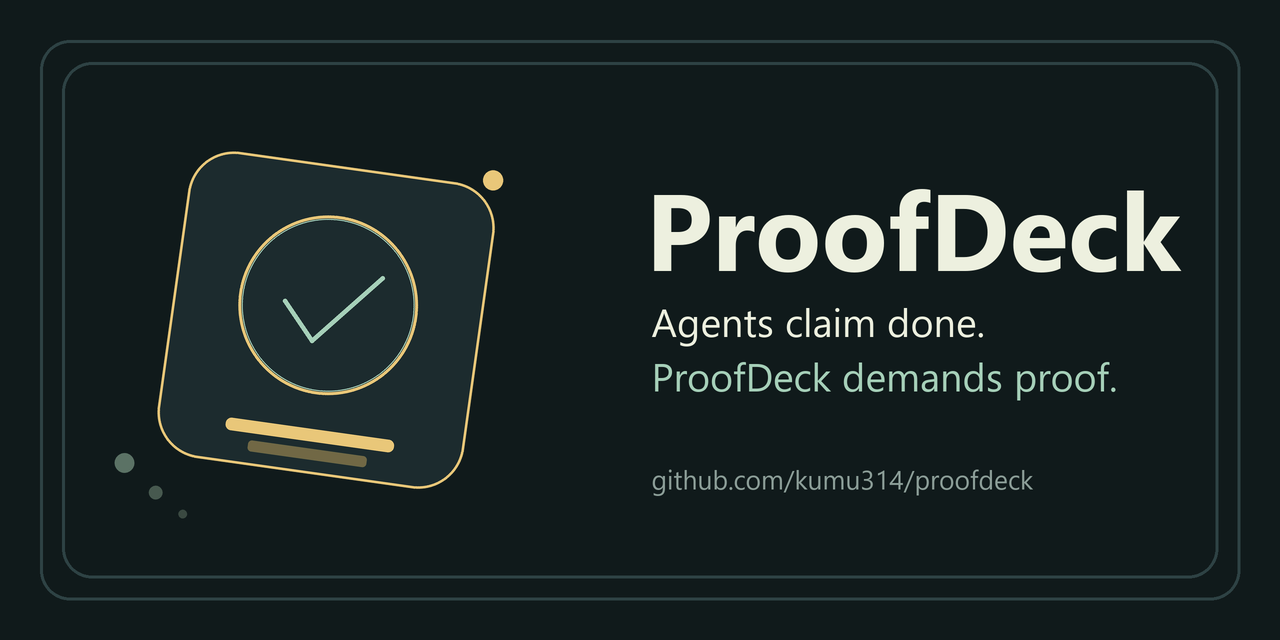
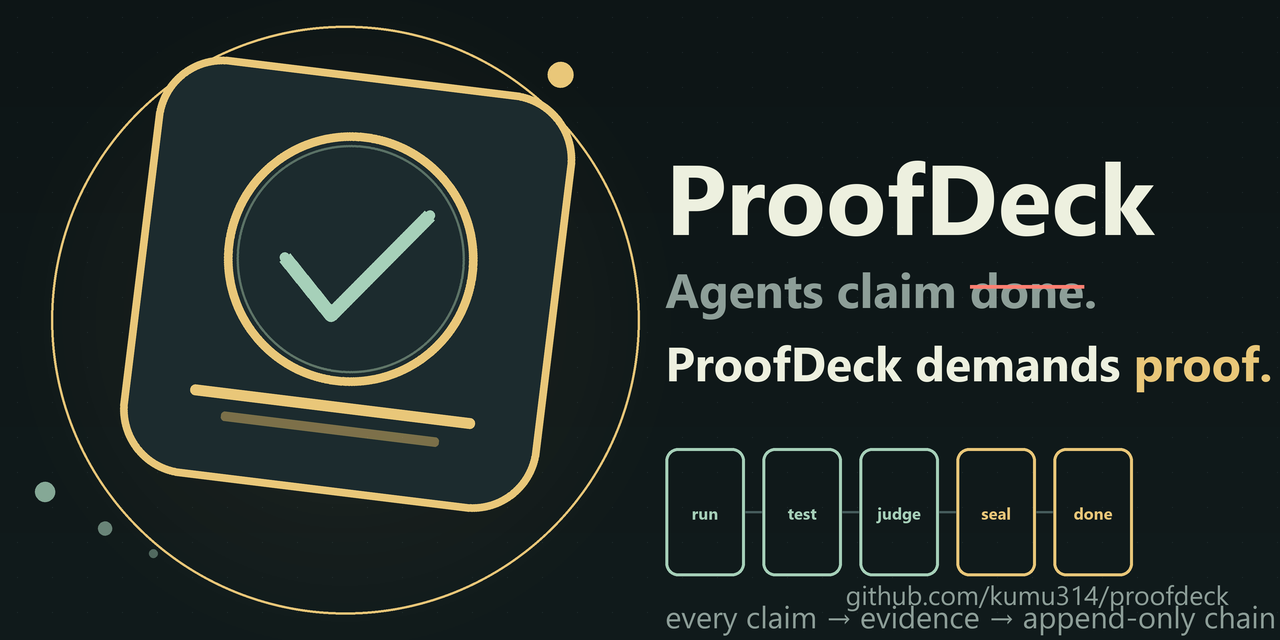
docs: upgrade social preview to the composed design version
- layered composition: soft gold radial glow, tilted deck card with proof seal,
  strikethrough-done typography device, evidence chain strip (run/test/judge/
  seal/done), project palette throughout

diff --git a/docs/render-social-v2.py b/docs/render-social-v2.py
@@ -1,0 +1,157 @@
+#!/usr/bin/env python3
+"""ProofDeck social preview — design version v2 (full-effort composition).
+
+Layers: deep gradient field → dot grid → seal glow → emblem (rotated deck card
+stamped with a proof seal) → evidence chain strip → typography with the
+done→proof contrast device. 3x supersampled.
+"""
+from PIL import Image, ImageDraw, ImageFont
+import os
+
+HERE = os.path.dirname(os.path.abspath(__file__))
+OUT = os.path.join(HERE, "assets", "social-preview-design.png")
+W, H = 1280, 640
+S = 3  # supersample
+WS, HS = W * S, H * S
+
+GOLD = (233, 199, 121)
+GOLD_DIM = (233, 199, 121, 90)
+MINT = (166, 208, 185)
+INK = (237, 240, 223)
+DIM = (141, 158, 152)
+CARD = (28, 43, 46)
+CARD2 = (22, 33, 36)
+BG_TOP = (13, 21, 22)
+BG_BOT = (17, 27, 28)
+RED_SOFT = (255, 128, 114)
+
+def font(size, bold=True):
+    paths = (["C:/Windows/Fonts/segoeuib.ttf", "C:/Windows/Fonts/arialbd.ttf"] if bold
+             else ["C:/Windows/Fonts/segoeui.ttf", "C:/Windows/Fonts/arial.ttf"])
+    for p in paths:
+        if os.path.exists(p):
+            return ImageFont.truetype(p, size)
+    return ImageFont.load_default()
+
+f_word = font(int(H * S * 0.155))          # wordmark
+f_tag = font(int(H * S * 0.075))           # tagline lines
+f_small = font(int(H * S * 0.048), bold=False)
+f_url = font(int(H * S * 0.042), bold=False)
+f_tile = font(int(H * S * 0.026))
+
+im = Image.new("RGB", (WS, HS), BG_TOP)
+d = ImageDraw.Draw(im)
+
+# 1) vertical gradient field
+for y in range(HS):
+    t = y / HS
+    c = tuple(int(BG_TOP[i] + (BG_BOT[i] - BG_TOP[i]) * t) for i in range(3))
+    d.line([(0, y), (WS, y)], fill=c)
+
+# 2) faint dot grid
+step = int(HS * 0.055)
+for gy in range(step // 2, HS, step):
+    for gx in range(step // 2, WS, step):
+        d.ellipse([gx - 1, gy - 1, gx + 1, gy + 1], fill=(38, 52, 55))
+
+# 3) soft gold radial glow behind the emblem (small-layer gradient, smooth-scaled)
+glow_cx, glow_cy = int(WS * 0.27), int(HS * 0.5)
+gr = int(HS * 0.58)
+glow_layer = Image.new("RGBA", (gr, gr), (0, 0, 0, 0))
+gd = ImageDraw.Draw(glow_layer)
+gc = gr // 2
+for r in range(gc, 0, -2):
+    a = int(30 * (1 - r / gc) ** 1.6)
+    gd.ellipse([gc - r, gc - r, gc + r, gc + r], fill=(GOLD[0], GOLD[1], GOLD[2], a))
+glow_layer = glow_layer.resize((gr * 2, gr * 2), Image.BICUBIC)
+im.paste(glow_layer, (glow_cx - gr, glow_cy - gr), glow_layer)
+# one faint outer composition ring
+d.ellipse([glow_cx - int(HS * 0.46), glow_cy - int(HS * 0.46),
+           glow_cx + int(HS * 0.46), glow_cy + int(HS * 0.46)],
+          outline=(GOLD[0], GOLD[1], GOLD[2], 45), width=int(HS * 0.004))
+
+# 4) emblem: rotated deck card + seal + check + evidence lines
+emblem = Image.new("RGBA", (WS, HS), (0, 0, 0, 0))
+ed = ImageDraw.Draw(emblem)
+card = int(HS * 0.66)
+cx, cy = glow_cx, glow_cy
+half = card // 2
+ed.rounded_rectangle([cx - half, cy - half, cx + half, cy + half],
+                     radius=int(card * 0.16), fill=CARD, outline=GOLD, width=int(HS * 0.012))
+# seal rings
+r = int(card * 0.30)
+ed.ellipse([cx - r, cy - int(card * 0.06) - r, cx + r, cy - int(card * 0.06) + r],
+           outline=GOLD, width=int(HS * 0.014))
+r2 = r - int(HS * 0.02)
+ed.ellipse([cx - r2, cy - int(card * 0.06) - r2, cx + r2, cy - int(card * 0.06) + r2],
+           outline=(MINT[0], MINT[1], MINT[2], 120), width=int(HS * 0.004))
+# checkmark
+chk = [(cx - int(r * 0.52), cy - int(card * 0.06) + int(r * 0.05)),
+       (cx - int(r * 0.10), cy - int(card * 0.06) + int(r * 0.46)),
+       (cx + int(r * 0.58), cy - int(card * 0.06) - int(r * 0.42))]
+ed.line(chk, fill=MINT, width=int(HS * 0.022), joint="curve")
+for p in chk:
+    ed.ellipse([p[0] - int(HS * 0.008), p[1] - int(HS * 0.008),
+                p[0] + int(HS * 0.008), p[1] + int(HS * 0.008)], fill=MINT)
+# evidence lines under the seal
+ed.rounded_rectangle([cx - int(card * 0.34), cy + int(card * 0.28),
+                      cx + int(card * 0.34), cy + int(card * 0.305)],
+                     radius=int(HS * 0.008), fill=GOLD)
+ed.rounded_rectangle([cx - int(card * 0.26), cy + int(card * 0.335),
+                      cx + int(card * 0.26), cy + int(card * 0.357)],
+                     radius=int(HS * 0.006), fill=(GOLD[0], GOLD[1], GOLD[2], 120))
+# chain dots flowing into the card
+for (fx, fy, fr, fa) in [(0.055, 0.88, 0.016, 200), (0.105, 0.925, 0.011, 150), (0.145, 0.955, 0.007, 110)]:
+    px, py, pr = int(WS * fx), int(HS * fy), int(HS * fr)
+    ed.ellipse([px - pr, py - pr, px + pr, py + pr], fill=(MINT[0], MINT[1], MINT[2], fa))
+# gold notch
+ed.ellipse([int(WS * 0.405), int(HS * 0.115), int(WS * 0.425), int(HS * 0.155)], fill=GOLD)
+emblem = emblem.rotate(-7, resample=Image.BICUBIC, expand=False)
+im.paste(emblem, (0, 0), emblem)
+
+# 5) typography — right column
+tx = int(WS * 0.52)
+ty = int(HS * 0.20)
+d.text((tx, ty), "ProofDeck", font=f_word, fill=INK)
+ty += int(HS * 0.20)
+# tagline line 1: "Agents claim done." with a strike through "done" (dim = dismissed)
+d.text((tx, ty), "Agents claim ", font=f_tag, fill=DIM)
+w1 = d.textlength("Agents claim ", font=f_tag)
+d.text((tx + w1, ty), "done.", font=f_tag, fill=DIM)
+w2 = d.textlength("done.", font=f_tag)
+sw = d.textlength("done", font=f_tag)
+sy = ty + int(HS * 0.048)
+d.line([(tx + w1, sy), (tx + w1 + sw, sy)], fill=RED_SOFT, width=int(HS * 0.006))
+ty += int(HS * 0.115)
+d.text((tx, ty), "ProofDeck demands ", font=f_tag, fill=INK)
+w3 = d.textlength("ProofDeck demands ", font=f_tag)
+d.text((tx + w3, ty), "proof.", font=f_tag, fill=GOLD)
+ty += int(HS * 0.13)
+
+# 6) evidence chain strip: five linked stamped tiles
+tile_w, tile_h, gap = int(WS * 0.062), int(HS * 0.20), int(WS * 0.014)
+chain_y = int(HS * 0.70)
+labels = ["run", "test", "judge", "seal", "done"]
+for i, lab in enumerate(labels):
+    x = tx + i * (tile_w + gap)
+    col = GOLD if i >= 3 else MINT
+    d.rounded_rectangle([x, chain_y, x + tile_w, chain_y + tile_h],
+                        radius=int(tile_w * 0.16), outline=col, width=int(HS * 0.005))
+    d.text((x + tile_w // 2 - d.textlength(lab, font=f_tile) // 2,
+            chain_y + tile_h // 2 - int(HS * 0.016)), lab, font=f_tile, fill=col)
+    if i < len(labels) - 1:
+        lx = x + tile_w
+        d.line([(lx + 2, chain_y + tile_h // 2), (lx + gap - 2, chain_y + tile_h // 2)],
+               fill=(70, 92, 92), width=int(HS * 0.004))
+d.text((tx, chain_y + tile_h + int(HS * 0.03)),
+       "every claim → evidence → append-only chain", font=f_small, fill=DIM)
+
+# 7) repo url bottom-right
+url = "github.com/kumu314/proofdeck"
+d.text((WS - int(WS * 0.04) - d.textlength(url, font=f_url), int(HS * 0.90)),
+       url, font=f_url, fill=DIM)
+
+im = im.resize((W, H), Image.LANCZOS)
+os.makedirs(os.path.dirname(OUT), exist_ok=True)
+im.save(OUT, quality=95)
+print("wrote", OUT)
